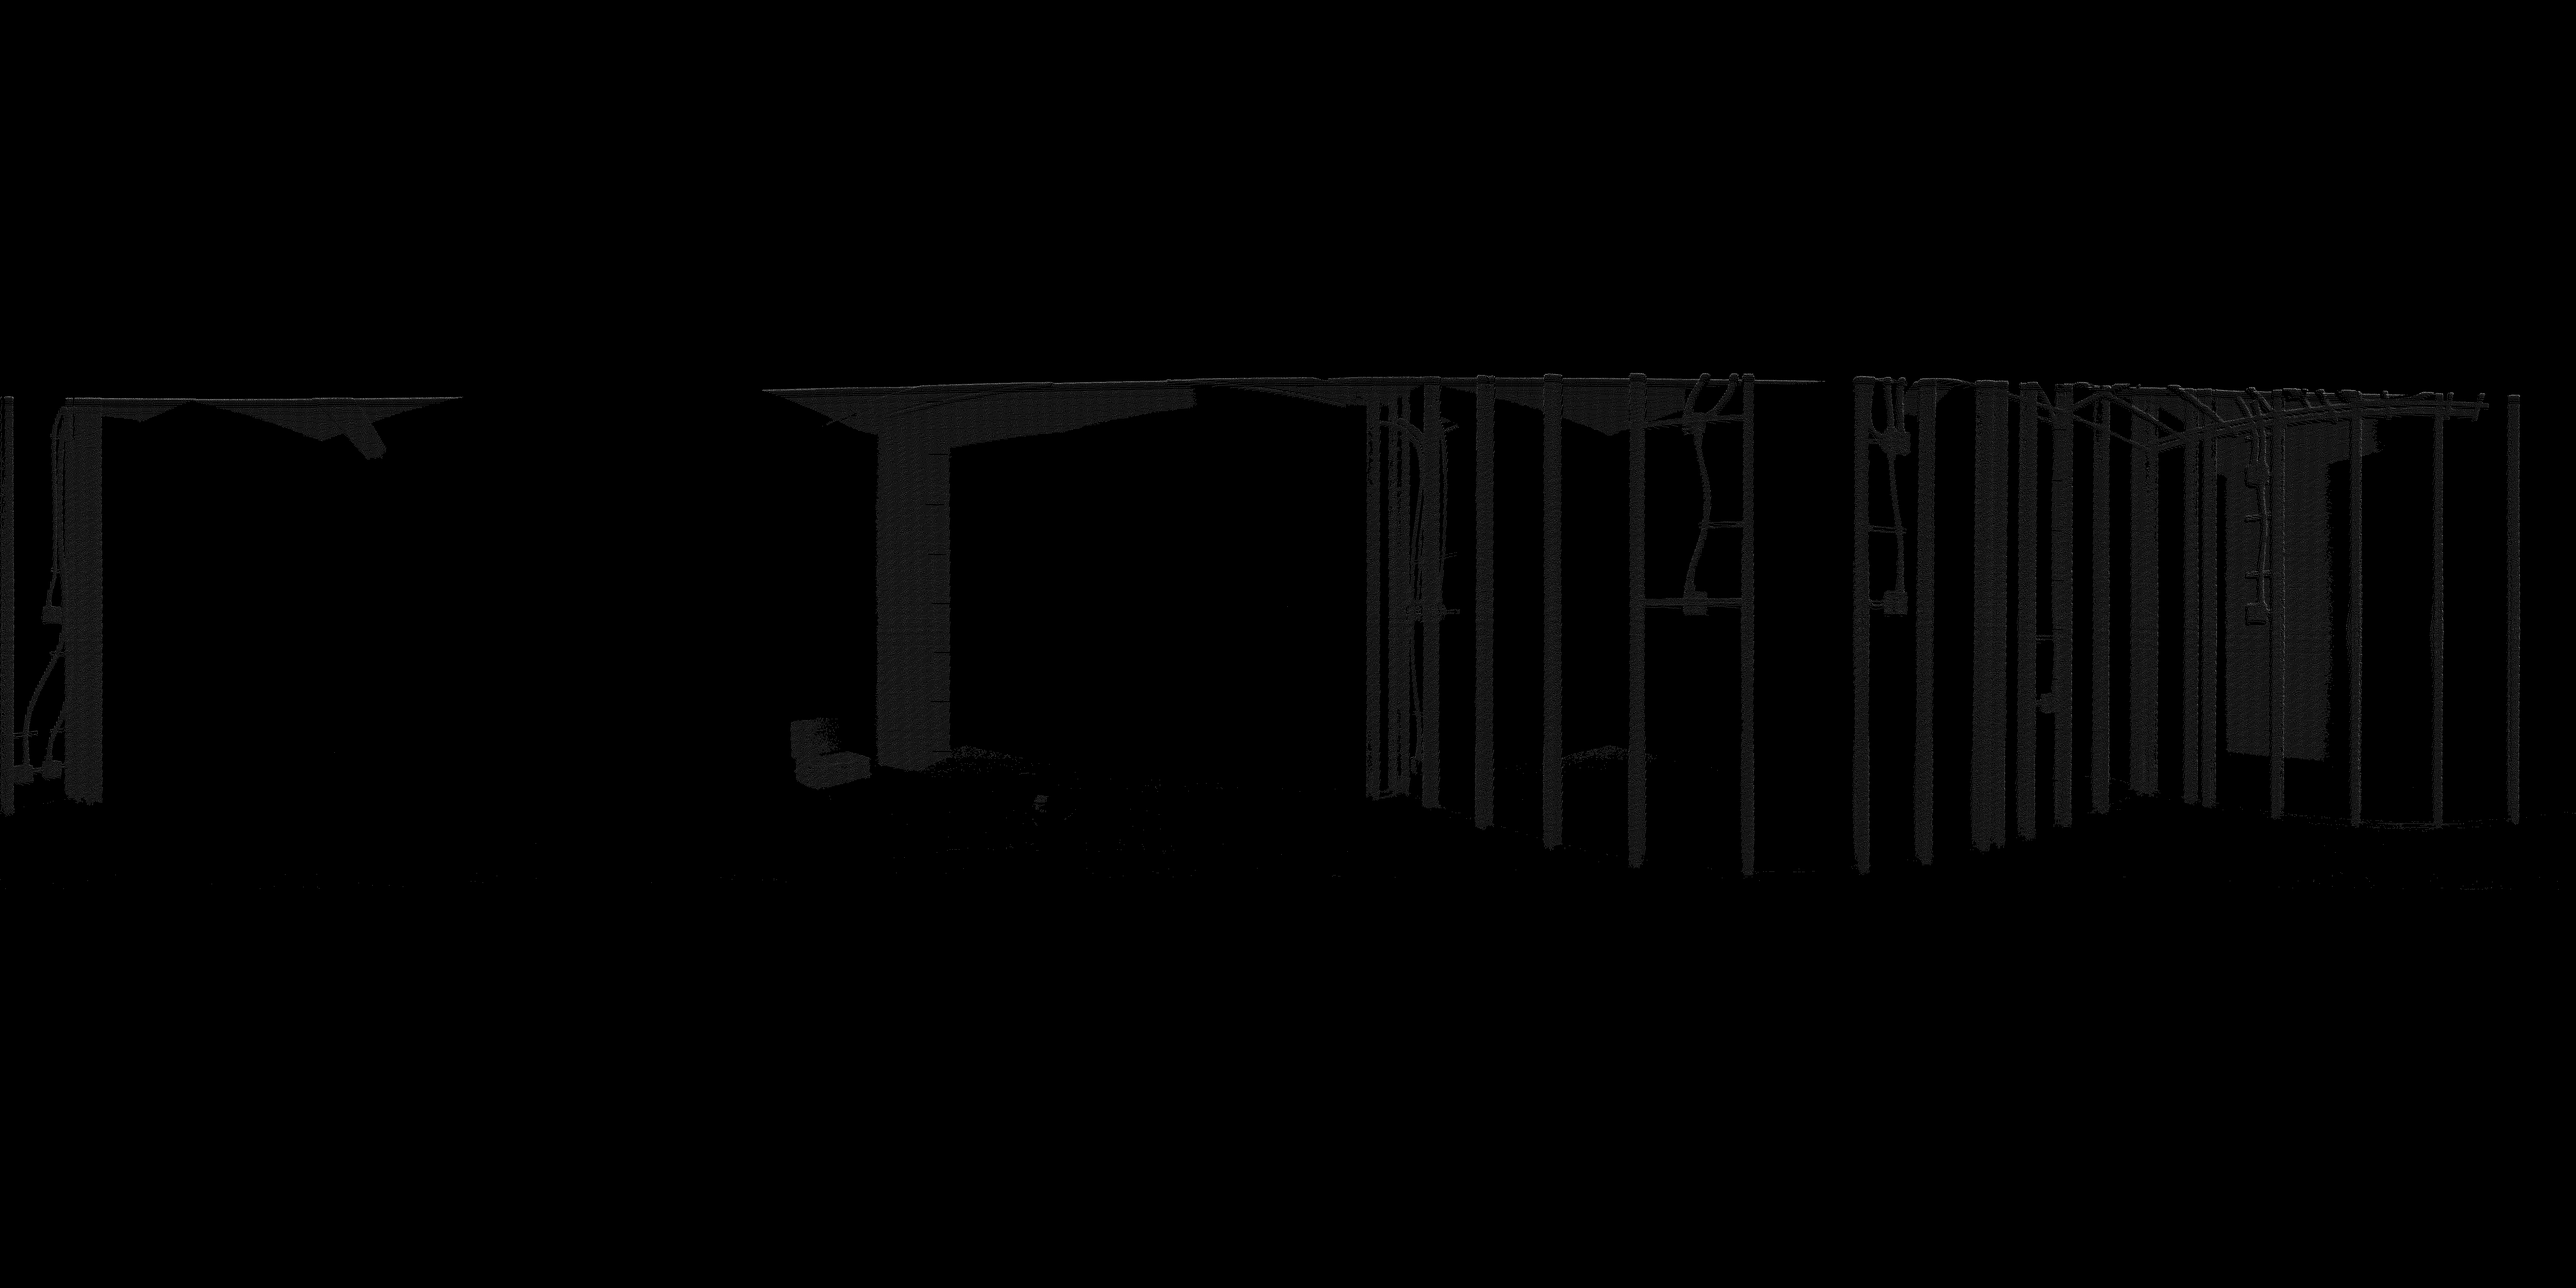
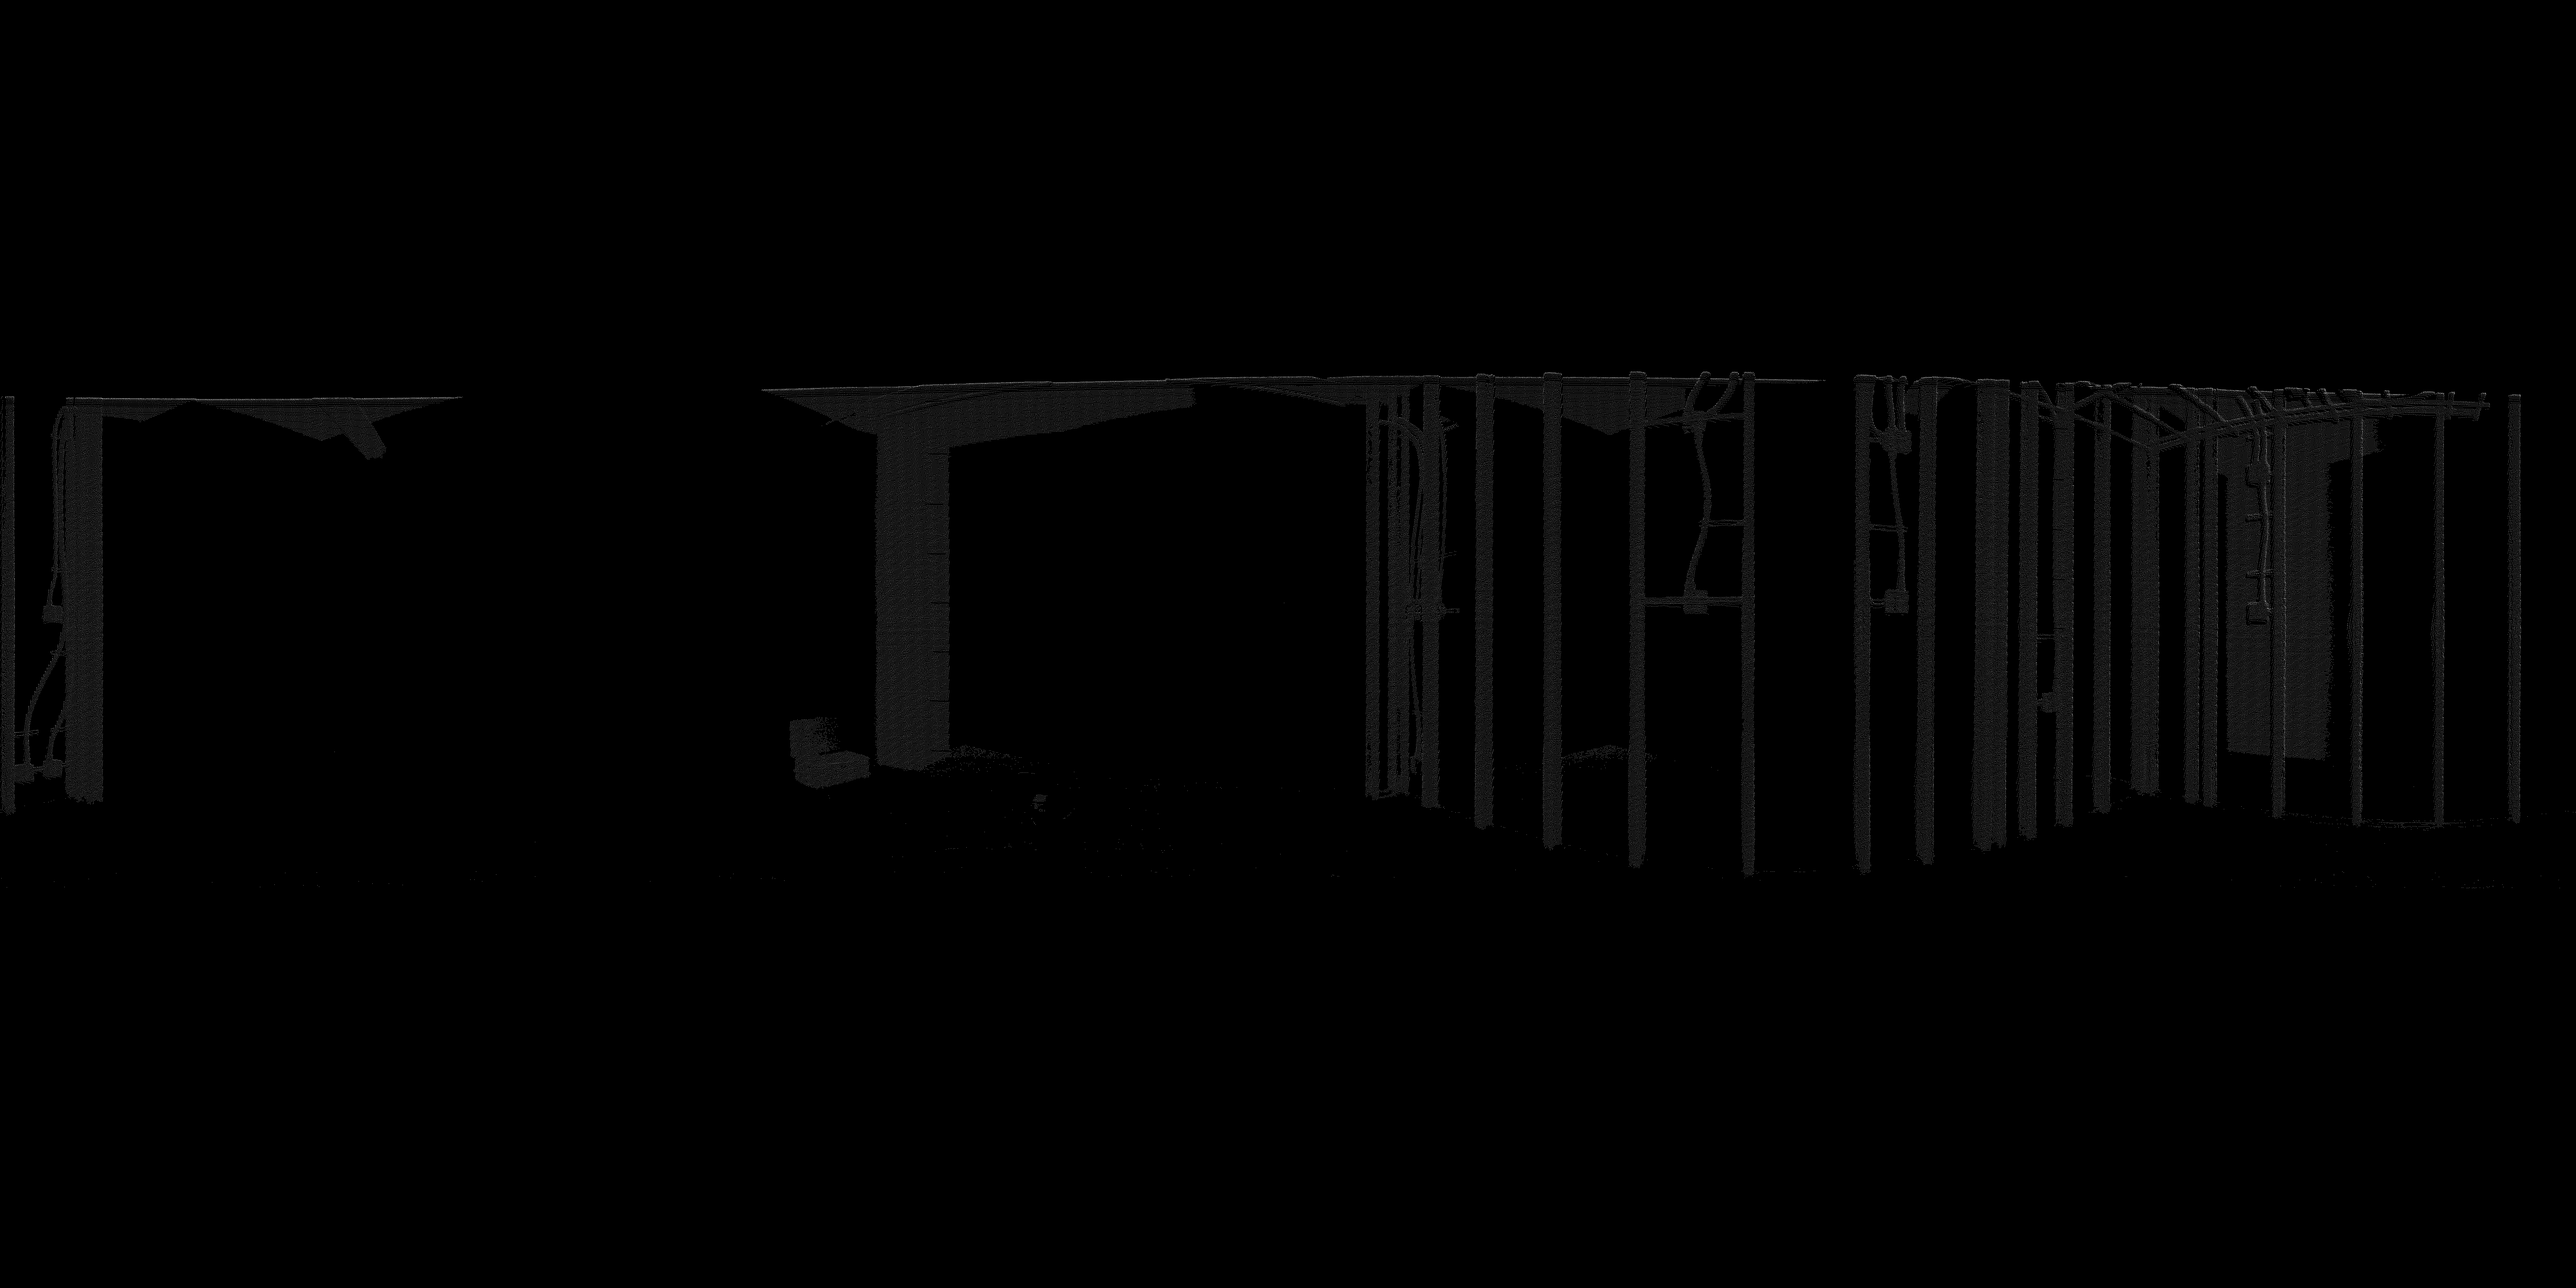
feat:#37 add process dilation

diff --git a/src/img_proc.cpp b/src/img_proc.cpp
@@ -77,26 +77,37 @@ void InstaImg::set_pixel_255(int u, int v)
     img.at<u_char>(v, u) = 255;
 }
 
-void Dilation(int, void *)
+void InstaImg::dilation(int dilation_elem, int dilation_size)
 {
+    cv::Mat dilation_dst;
     int dilation_type = 0;
     if (dilation_elem == 0)
     {
-        dilation_type = MORPH_RECT;
+        // 長方形(全部埋めてる)
+        dilation_type = cv::MORPH_RECT;
     }
     else if (dilation_elem == 1)
     {
-        dilation_type = MORPH_CROSS;
+        // 十字型
+        dilation_type = cv::MORPH_CROSS;
     }
     else if (dilation_elem == 2)
     {
-        dilation_type = MORPH_ELLIPSE;
+        // 楕円ぽい感じ
+        dilation_type = cv::MORPH_ELLIPSE;
     }
-    Mat element = getStructuringElement(dilation_type,
-                                        Size(2 * dilation_size + 1, 2 * dilation_size + 1),
-                                        Point(dilation_size, dilation_size));
-    dilate(src, dilation_dst, element);
-    imshow("Dilation Demo", dilation_dst);
+
+    // カーネル作成
+    // shape, kernel size, anchor
+    // カーネルサイズは1で3*3 2で5*5 3で7*7
+    // anchorは注目画素をどこにするか。指定しないとカーネル中心を注目画素にする
+    cv::Mat element = cv::getStructuringElement(
+        dilation_type,
+        cv::Size(2 * dilation_size + 1, 2 * dilation_size + 1),
+        cv::Point(dilation_size, dilation_size));
+
+    cv::dilate(img, img, element);
+    show("dilation demo", 0.25);
 }
 
 /**

diff --git a/src/operation.cpp b/src/operation.cpp
@@ -925,6 +925,11 @@ void PointOperation::test_location()
     removed_floor_ply_point.convert_to_polar();
     lidar_img.set_zero_imgMat(image.get_height(), image.get_width(), CV_8UC1);
     lidar_img.ply_to_360paranoma_img(removed_floor_ply_point);
+    cv::imwrite("ply2img_origin.png", lidar_img.get_mat());
+    lidar_img.dilation(0, 1);
+    cv::imwrite("ply2img_dilation.png", lidar_img.get_mat());
+    lidar_img.show("lidar", 0.25);
+
     EdgeImg lidar_edge;
     lidar_edge.detect_edge_with_sobel(lidar_img.get_mat());
 

diff --git a/src/img_proc.hpp b/src/img_proc.hpp
@@ -58,7 +58,7 @@ public:
     void convert_to_unitsphere(PointSet &);
     void img_alpha_blending(const cv::Mat &, const cv::Mat &, double);
     double compute_MSE(const cv::Mat &, const cv::Mat &);
-    void dilation();
+    void dilation(int, int);
 };
 
 /**
